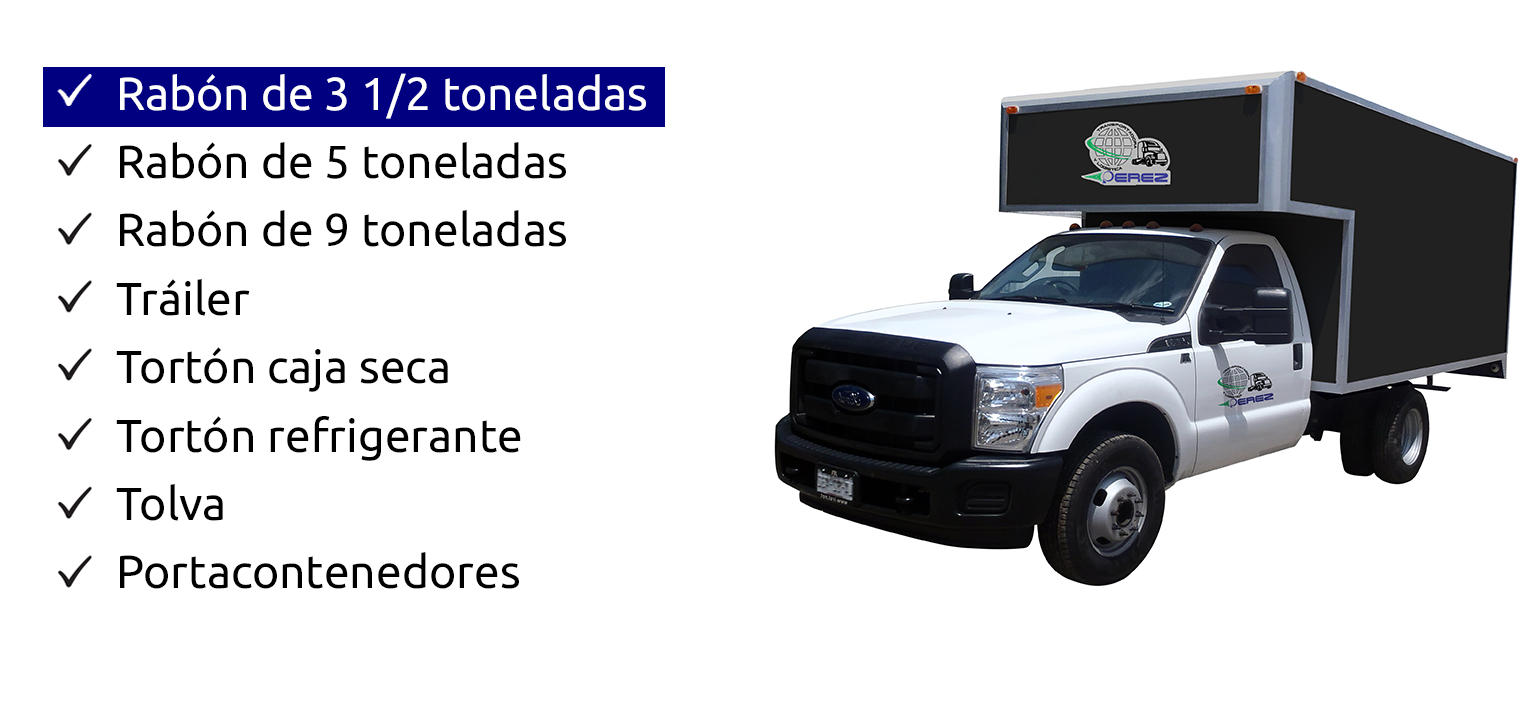
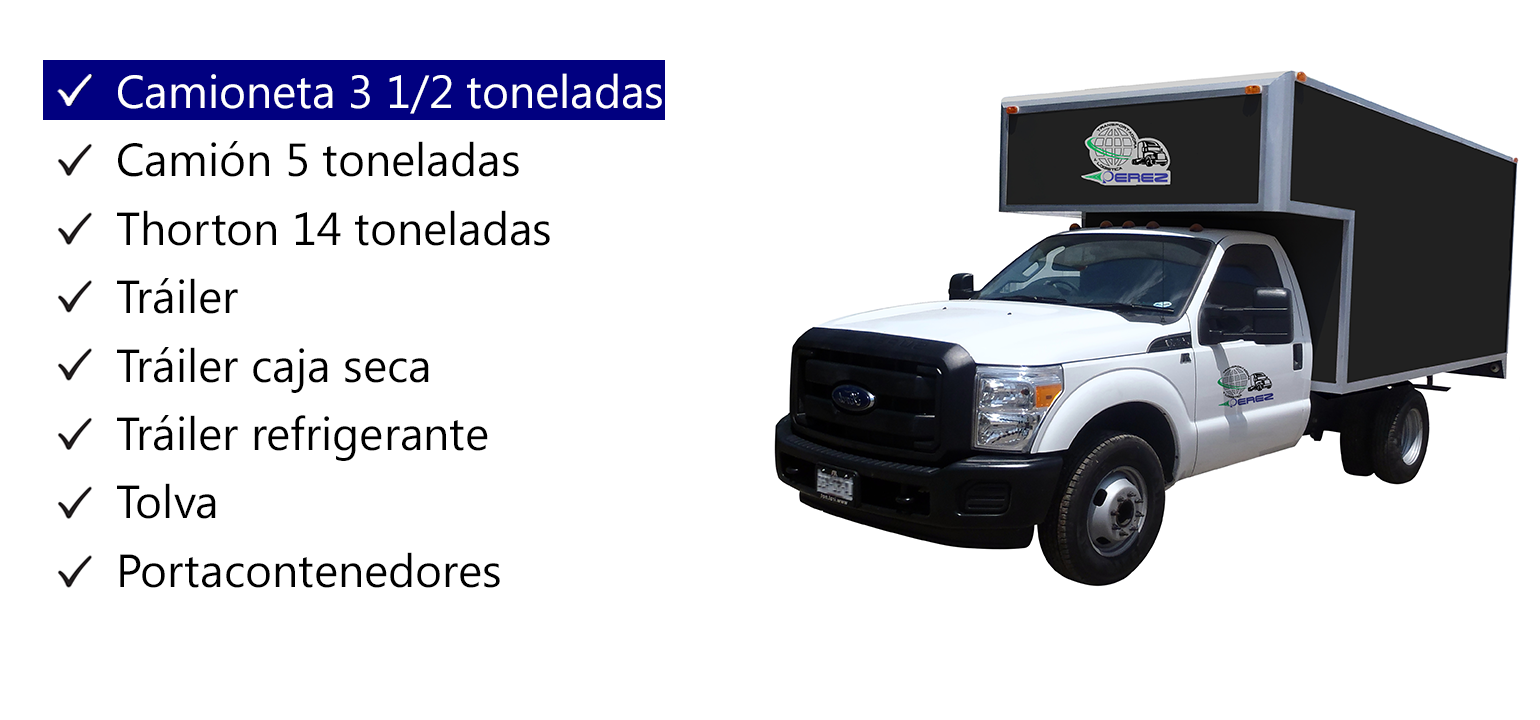
Agrego nuevas imágenes en sitio perez

diff --git a/public/javascripts/servicios.js b/public/javascripts/servicios.js
@@ -1,17 +1,17 @@
-function changeVehiculo() {
-  $("#vehiculo").css({width:"70%"}).attr("src", flotilla[contador].source);
-  contador++;
-  if (contador >= flotilla.length) {
-    contador = 0;
-  }
+function changeVehiculo()  {
+    $("#vehiculo").css({ width: "70%" }).attr("src", flotilla[contador].source);
+    contador++;
+    if (contador >= flotilla.length) {
+        contador = 0;
+    }
 
-  setTimeout("changeVehiculo()", 2000);
+    setTimeout("changeVehiculo()", 2000);
 }
 
 const source = "/images/servicios/";
-let flotilla = [{source:`${source}rabon35.png`, id:1},{source:`${source}rabon5.png`,id:2}, {source:`${source}rabon9.png`,id:3},{source:`${source}trailer.png`,id:4},{source:`${source}cajaseca.png`,id:5},{source:`${source}refri.png`,id:6},{source:`${source}tolva.png`,id:7},{source:`${source}portacontenedor.png`,id:8}];
+let flotilla = [{ source: `${source}rabon35.png`, id: 1 }, { source: `${source}rabon5.png`, id: 2 }, { source: `${source}thorton14.png`, id: 3 }, { source: `${source}trailer.png`, id: 4 }, { source: `${source}cajaseca.png`, id: 5 }, { source: `${source}refri.png`, id: 6 }, { source: `${source}tolva.png`, id: 7 }, { source: `${source}portacontenedor.png`, id: 8 }];
 let contador = 0;
 
 $(function() {
-  changeVehiculo();
+    changeVehiculo();
 });
